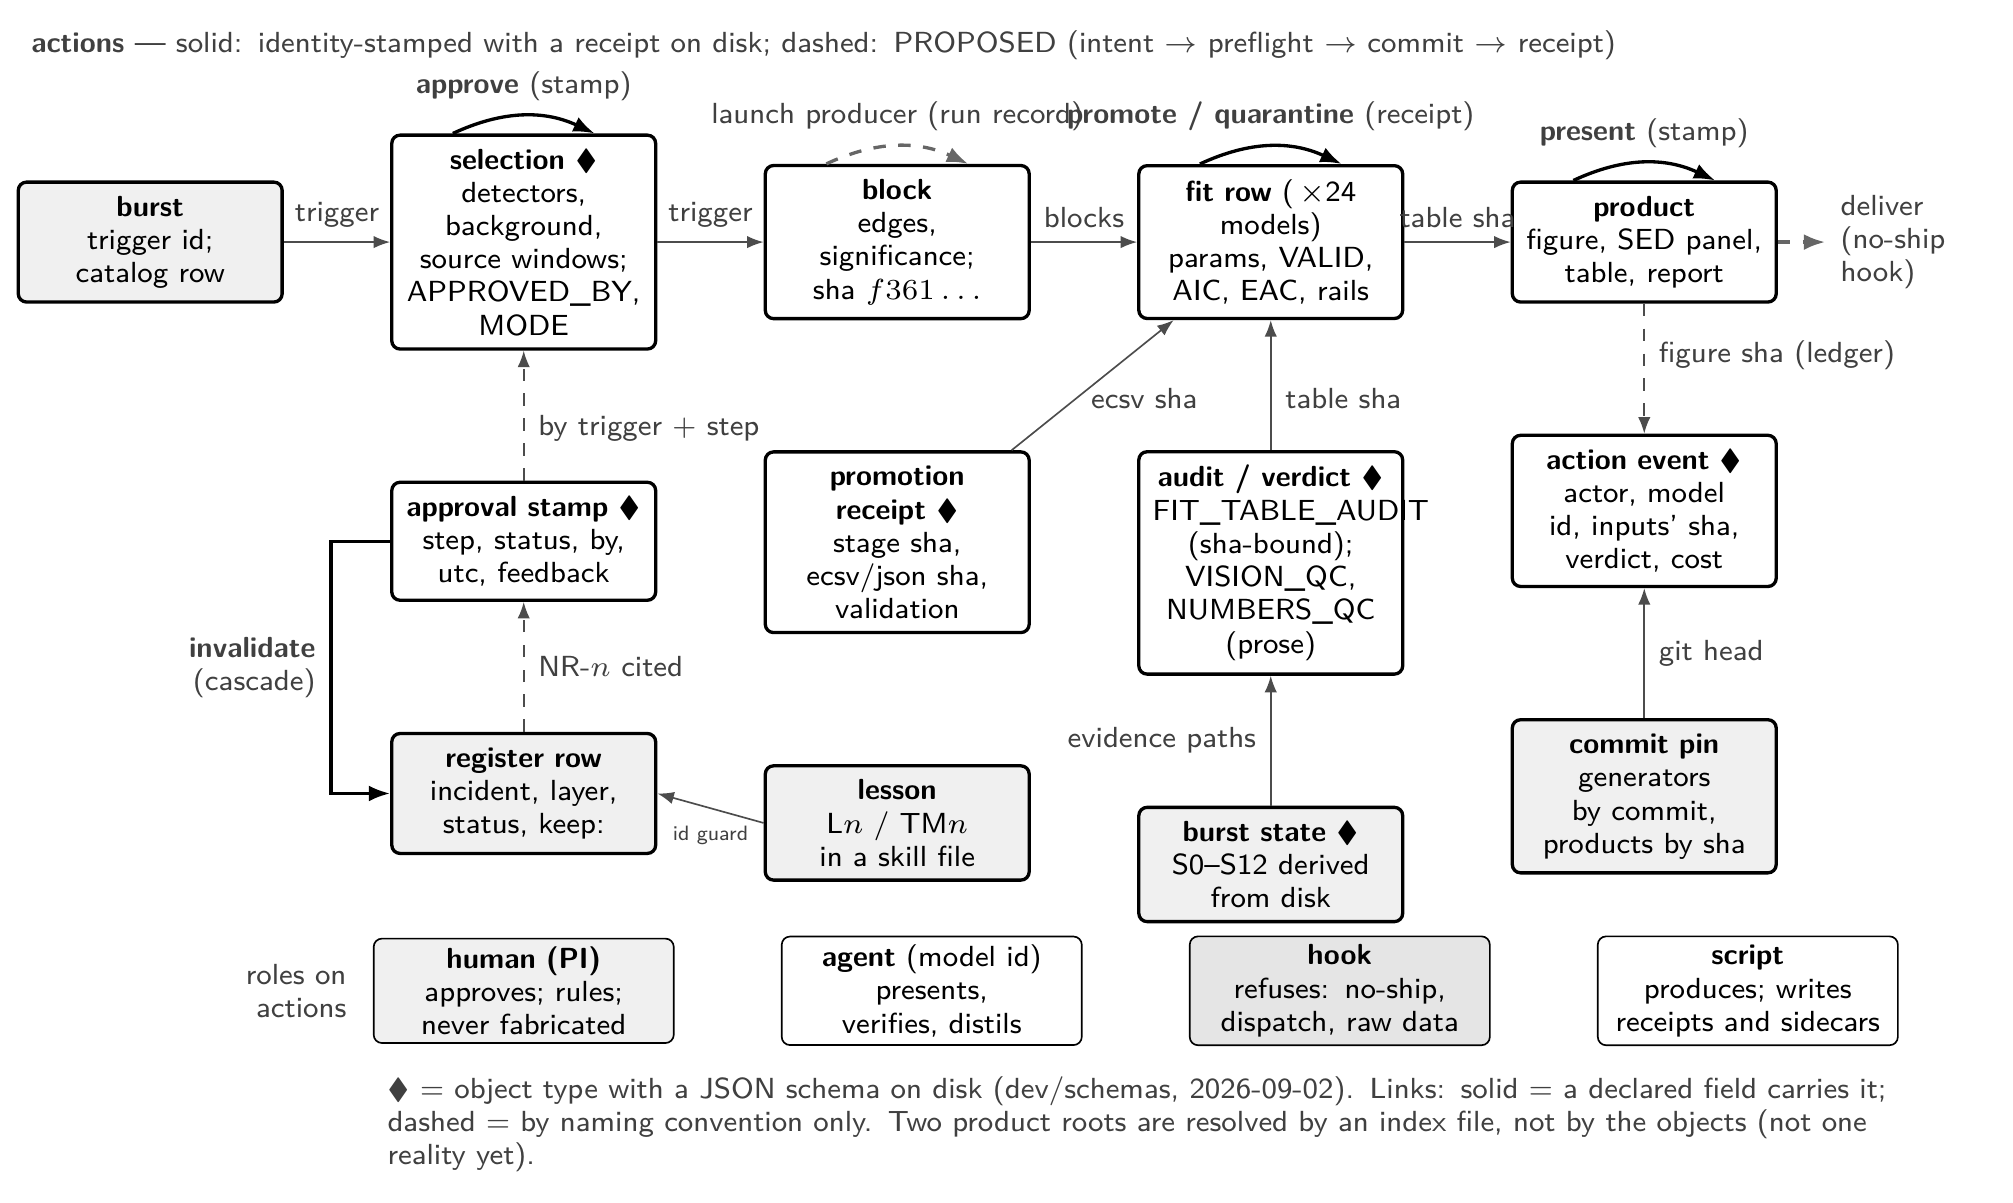
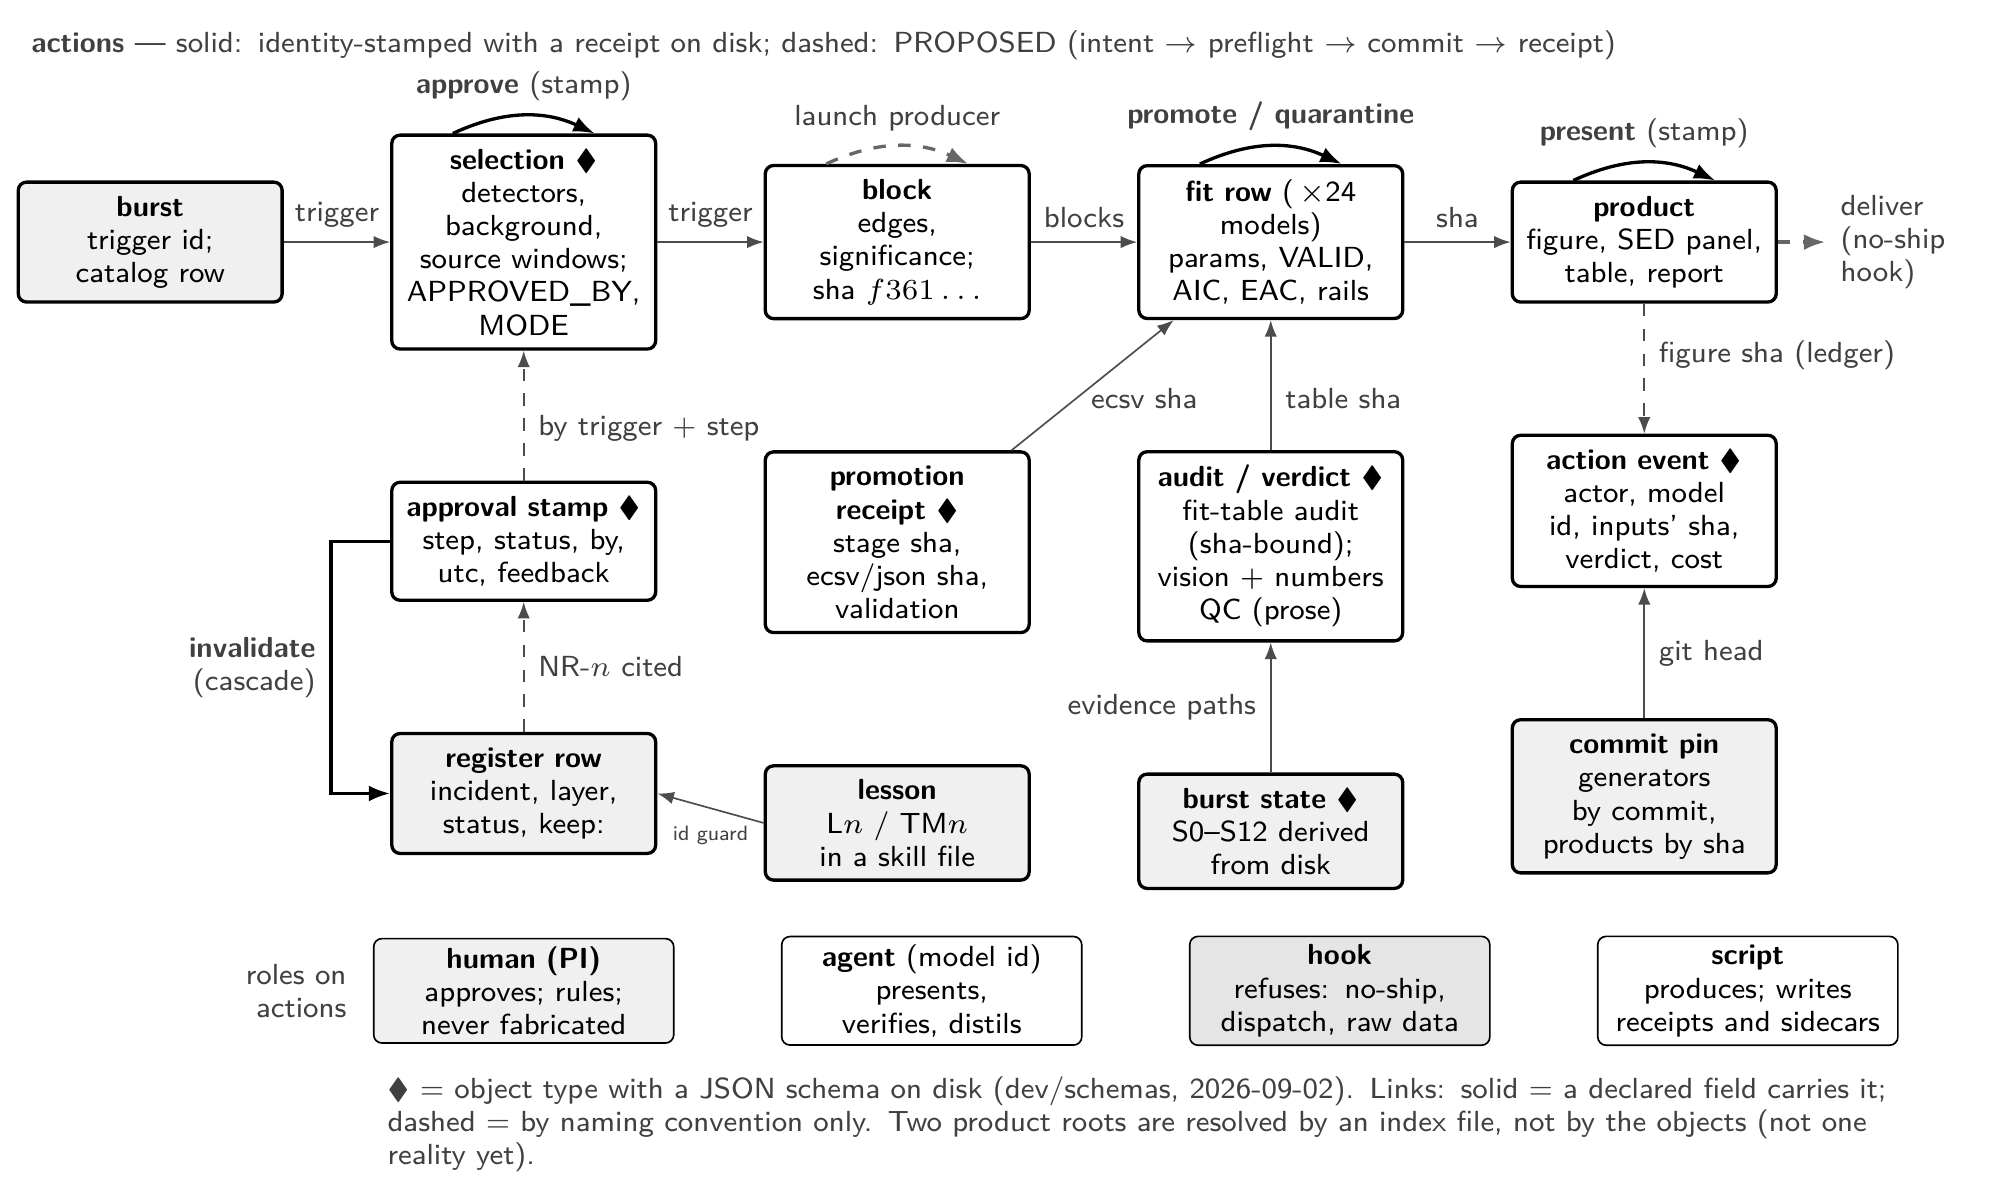
paper v3 figures: delta-gate nits closed on F1 (label clear of its arrow) and F4 (no overfull word); F5 label collisions fixed; all four diagrams ≤ 7.0 in, 300 dpi, zero overfull boxes — F1/F4 PASS-WITH-NITS (nits now closed), F2/F5 gate in flight
Claude-Session: https://claude.ai/code/session_014ZKU13JNR6E9CyYseiK5df

diff --git a/paper_agentic/figures/fig_F5_object_action_model.tex b/paper_agentic/figures/fig_F5_object_action_model.tex
@@ -31,7 +31,7 @@
 % ---- row 2: the records about the products ----
 \node[obj, below=11mm of sel] (stamp) {\textbf{approval stamp} \ensuremath{\blacklozenge}\\step, status, by, utc, feedback};
 \node[obj, below=11mm of blk] (receipt) {\textbf{promotion receipt} \ensuremath{\blacklozenge}\\stage sha, ecsv/json sha, validation};
-\node[obj, below=11mm of fit] (audit) {\textbf{audit / verdict} \ensuremath{\blacklozenge}\\FIT\_TABLE\_AUDIT (sha-bound); VISION\_QC, NUMBERS\_QC (prose)};
+\node[obj, below=11mm of fit] (audit) {\textbf{audit / verdict} \ensuremath{\blacklozenge}\\fit-table audit (sha-bound); vision + numbers QC (prose)};
 \node[obj, below=11mm of prod] (trace) {\textbf{action event} \ensuremath{\blacklozenge}\\actor, model id, inputs' sha, verdict, cost};
 
 % ---- row 3: the law ----
@@ -44,7 +44,7 @@
 \draw[link] (burst) -- node[lab, above] {trigger} (sel);
 \draw[link] (sel) -- node[lab, above] {trigger} (blk);
 \draw[link] (blk) -- node[lab, above] {blocks} (fit);
-\draw[link] (fit) -- node[lab, above] {table sha} (prod);
+\draw[link] (fit) -- node[lab, above] {sha} (prod);
 \draw[link] (receipt) -- node[lab, right, pos=0.4] {ecsv sha} (fit);
 \draw[link] (audit) -- node[lab, right, pos=0.4] {table sha} (fit);
 \draw[linkc] (stamp.north) -- node[lab, right, pos=0.4] {by trigger + step} (sel.south);
@@ -57,10 +57,10 @@
 % ---- actions: first-class on disk (solid), proposed (dashed) ----
 \node[lab, above=9mm of burst.north west, anchor=south west, text width=140mm, align=left] {\textbf{actions} --- solid: identity-stamped with a receipt on disk; dashed: PROPOSED (intent $\to$ preflight $\to$ commit $\to$ receipt)};
 \draw[act] ($(sel.north)+(-6mm,0)$) to[bend left=25] node[lab, above] {\textbf{approve} (stamp)} ($(sel.north)+(6mm,0)$);
-\draw[act] ($(fit.north)+(-6mm,0)$) to[bend left=25] node[lab, above] {\textbf{promote / quarantine} (receipt)} ($(fit.north)+(6mm,0)$);
+\draw[act] ($(fit.north)+(-6mm,0)$) to[bend left=25] node[lab, above] {\textbf{promote / quarantine}} ($(fit.north)+(6mm,0)$);
 \draw[act] ($(prod.north)+(-6mm,0)$) to[bend left=25] node[lab, above] {\textbf{present} (stamp)} ($(prod.north)+(6mm,0)$);
 \draw[act] (stamp.west) -- ++(-5mm,0) |- node[lab, left, pos=0.25, text width=12mm, align=right] {\textbf{invalidate} (cascade)} (reg.west);
-\draw[actp] ($(blk.north)+(-6mm,0)$) to[bend left=25] node[lab, above] {launch producer (run record)} ($(blk.north)+(6mm,0)$);
+\draw[actp] ($(blk.north)+(-6mm,0)$) to[bend left=25] node[lab, above] {launch producer} ($(blk.north)+(6mm,0)$);
 \draw[actp] (prod.east) -- ++(4mm,0) node[lab, right, text width=12mm, align=left] {deliver (no-ship hook)};
 
 % ---- roles band ----

diff --git a/paper_agentic/figures/fig_F4_steering_loop.tex b/paper_agentic/figures/fig_F4_steering_loop.tex
@@ -37,7 +37,7 @@
 \node[box, right=of k, fill=black!6] (freeze) {\textbf{FREEZE} at a recorded commit\\one production sweep over all 106};
 \node[box, below=7mm of k, fill=black!6, xshift=-42mm] (next) {\textbf{next burst}\\runs a better pipeline};
 
-\node[prop, right=of dist, text width=27mm] (keep) {keep-condition / retest-on-model-change per row};
+\node[prop, right=of dist, text width=27mm] (keep) {keep-condition / retest on model change, per row};
 \node[prop, below=of keep, text width=27mm] (fire) {did-it-fire ledger per guard};
 
 \draw[arr] (inc) -- (prior);

diff --git a/paper_agentic/figures/fig_F1_harness_anatomy.tex b/paper_agentic/figures/fig_F1_harness_anatomy.tex
@@ -67,7 +67,7 @@
 \draw[arr] (state.east) -- (bound.west);
 \draw[arr] (bound.north) |- ($(model.south)+(8mm,-3mm)$) -- ($(model.south)+(8mm,0)$);
 \draw[arr] (pi.north) -- ++(0,1.5mm) -| ($(s4.east)+(1.5mm,0)$) |- (s2.east);
-\node[lab, anchor=west] at ($(pi.north)+(3mm,1mm)$) {stamps};
+\node[lab, anchor=south west] at ($(pi.north)+(3mm,1.9mm)$) {stamps};
 \node[lab, below=1mm of pi] {approval identity-stamped; never fabricated};
 
 % legend
